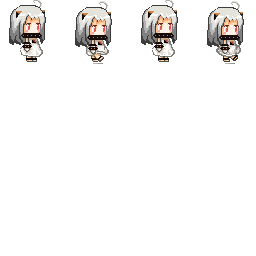
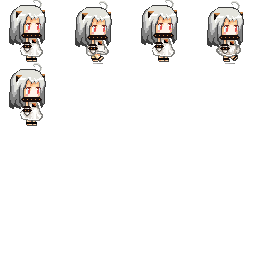
北方可以走来走去了

Changed region(s): [[0.0312, 0.25, 0.1875, 0.5]]

diff --git a/Kanmaku/source/AnchorPointAnimation.cpp b/Kanmaku/source/AnchorPointAnimation.cpp
@@ -53,12 +53,13 @@ void AnchorPointAnimation::Initialize( void )
 void AnchorPointAnimation::InitialPlayer() {
 	m_hImage = SGD::GraphicsManager::GetInstance()->LoadTexture(L"resource/graphics/Cus_NorthernPrincess.png");
 
-	m_vFrames.resize(4);		// 4 frames: 0->3
+	m_vFrames.resize(5);		// 4 frames: 0->3
 
-	m_vFrames[0] = { {   0, 0,  64, 64 },	{ 32,32 }, 0.1f };	// source, position, duration
+	m_vFrames[0] = { {   0, 0,  64, 64 },	{ 32,32 }, 0.05f };	// source, position, duration
 	m_vFrames[1] = { {  64, 0, 128, 64 },	{ 32,32 }, 0.1f };
 	m_vFrames[2] = { { 128, 0, 192, 64 },	{ 32,32 }, 0.1f };
-	m_vFrames[3] = { { 192, 0, 256, 64 },	{ 32,32 }, 0.1f };
+	m_vFrames[3] = { { 192, 0, 256, 64 }, { 32, 32 }, 0.1f };
+	m_vFrames[4] = { { 0, 64, 64, 128 }, { 32, 32 }, 0.05f };
 
 	m_nCurrFrame = 0;
 
@@ -84,8 +85,8 @@ void AnchorPointAnimation::Terminate( void )
 //	- run the animation timer
 void AnchorPointAnimation::Update( float elapsedTime, bool isFlipped)
 {
-	std::vector< Frame > _vFrames = m_vFrames;
 
+	std::vector< Frame > _vFrames = m_vFrames;
 	if (isFlipped) {
 		std::reverse(_vFrames.begin(), _vFrames.end());
 	}
@@ -134,8 +135,7 @@ void AnchorPointAnimation::Render( SGD::Point position, bool flipped, float scal
 		"AnchorPointAnimation::Render - animation was not initialized" );
 	
 	// Check the parameters
-	if( scale <= 0.0f
-		|| color.alpha == 0 )
+	if( scale <= 0.0f || color.alpha == 0 )
 		return;
 
 
@@ -148,10 +148,15 @@ void AnchorPointAnimation::Render( SGD::Point position, bool flipped, float scal
 	if( flipped == true )
 		scaleX = -scaleX;
 
+	std::vector< Frame > _vFrames = m_vFrames;
+	if (flipped) {
+		std::reverse(_vFrames.begin(), _vFrames.end());
+	}
+
 
 	// Retrieve the source rect for the current frame
-	SGD::Rectangle frame = m_vFrames[ m_nCurrFrame ].rFrame;
-	SGD::Point anchor = m_vFrames[ m_nCurrFrame ].ptAnchor;
+	SGD::Rectangle frame = _vFrames[m_nCurrFrame].rFrame;
+	SGD::Point anchor = _vFrames[m_nCurrFrame].ptAnchor;
 
 
 	// Draw the current frame, offset from the position by
@@ -172,9 +177,15 @@ void AnchorPointAnimation::Render( SGD::Point position, bool flipped, float scal
 SGD::Rectangle	AnchorPointAnimation::GetRect( SGD::Point position, bool flipped,
 						float scale ) const
 {
+
+	std::vector< Frame > _vFrames = m_vFrames;
+
+	if (flipped) {
+		std::reverse(_vFrames.begin(), _vFrames.end());
+	}
 	// Retrieve the source rect for the current frame
-	SGD::Rectangle	frame	= m_vFrames[ m_nCurrFrame ].rFrame;
-	SGD::Point		anchor	= m_vFrames[ m_nCurrFrame ].ptAnchor;
+	SGD::Rectangle	frame = _vFrames[m_nCurrFrame].rFrame;
+	SGD::Point		anchor = _vFrames[m_nCurrFrame].ptAnchor;
 
 	// Is it flipped?
 	if( flipped == true )

diff --git a/Kanmaku/source/Player.cpp b/Kanmaku/source/Player.cpp
@@ -96,50 +96,40 @@ void Player::Update(float elapsedTime) {
 	//////////////////////////////////////////////////////////////
 
 	if (ptInput->IsKeyDown(SGD::Key::A)) {
-		
+		m_bIsFlipped = true;
+
 		if (m_fSpeed < m_fMaxSpeed) {
 			m_fSpeed += m_fAccelerationRate * elapsedTime;
 		}
-		m_bIsFlipped = true;
-		m_pCharaterAnim->Pause(false);
-	} else {
-		m_pCharaterAnim->Pause(true);
-
-	}
+		
+	} 
 
 	if (ptInput->IsKeyDown(SGD::Key::D)) {
+		m_bIsFlipped = false;
 
 		if (m_fSpeed > -m_fMaxSpeed) {
 			m_fSpeed -= m_fAccelerationRate * elapsedTime;
 		}
-		m_bIsFlipped = false;
-		m_pCharaterAnim->Pause(false);
-	} else {
-		m_pCharaterAnim->Pause(true);
-
-	}
+		
+	} 
 	//	left and right control
 	if (!(ptInput->IsKeyDown(SGD::Key::D) || ptInput->IsKeyDown(SGD::Key::A))) {
-		m_pCharaterAnim->Restart(true, 1.0f);
 
 		if (m_ptPosition.y + m_szSize.height / 2 == GameplayState::GetInstance()->GetWorldSize().height - m_fGroundOffset) {
 			if (m_fSpeed > 0) {
-				if (m_fSpeed - (m_fAccelerationRate * 1.8f) * elapsedTime < 0) {
+				if (m_fSpeed - (m_fAccelerationRate * 2.0f) * elapsedTime < 0) {
 					m_fSpeed = 0;
 				} else {
-					m_fSpeed -= (m_fAccelerationRate * 1.8f) * elapsedTime;
+					m_fSpeed -= (m_fAccelerationRate * 2.0f) * elapsedTime;
 				}
 			} else if (m_fSpeed < 0) {
-				m_fSpeed += (m_fAccelerationRate * 1.8f) * elapsedTime;
+				m_fSpeed += (m_fAccelerationRate * 2.0f) * elapsedTime;
 			}
 		}
 	}
 
 
 	if (m_bPendingJump) {	//pre-Jump trigger "space and w"
-#if _DEBUG
-		std::cout << m_ptPosition.y + m_szSize.height / 2 << '\n';
-#endif
 		if (m_ptPosition.y + m_szSize.height / 2 == GameplayState::GetInstance()->GetWorldSize().height - m_fGroundOffset) {
 			m_vtVelocity.y = -1500.0f;
 		}
@@ -152,17 +142,19 @@ void Player::Update(float elapsedTime) {
 	m_vtVelocity.x = vtNewVelocity.x;
  	m_vtVelocity += m_vtGravity;
 
-
-
-	if (m_pCharaterAnim != nullptr) {
-
-		m_pCharaterAnim->Update(elapsedTime, m_bIsFlipped);
-
-
-		Entity::Update(elapsedTime);
+	if (m_fSpeed > 0) {
+		m_pCharaterAnim->Pause(false);
+	} else if (m_fSpeed < 0) {
+		m_pCharaterAnim->Pause(false);
+	} else {
+		m_pCharaterAnim->Pause(true);
+		m_pCharaterAnim->Restart(true, 1.0f);
 	}
 
-
+	if (m_pCharaterAnim != nullptr) {
+		m_pCharaterAnim->Update(elapsedTime, m_bIsFlipped);
+		Entity::Update(elapsedTime);
+	}
 	StayInWorld();
 }
 
